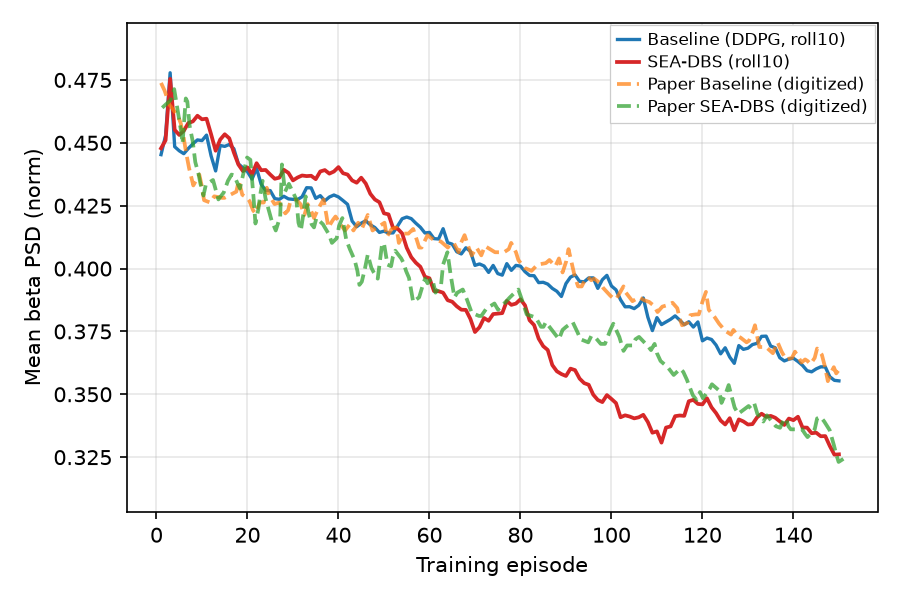
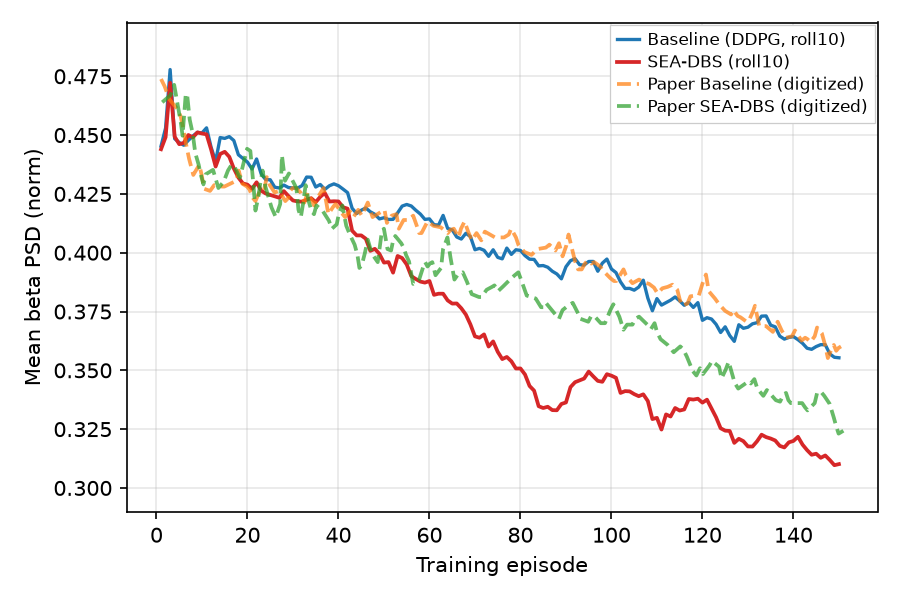
docs(reports): add continuous single-page PDFs for reports 1-4
- Generate continuous single-page PDF exports using WeasyPrint for Reports 1 through 4
- Include PDF artifacts under reports/ in the repository

diff --git a/figures/ravivarapu/replications.md b/figures/ravivarapu/replications.md
@@ -7,8 +7,8 @@ Side-by-side **paper panel** vs **our replication**. Plot scripts write replicat
 <!-- summary:start -->
 | Panel | Description | Status |
 |-------|-------------|--------|
-| Fig 4a | Training PSD vs episode | Pass (v68) |
-| Fig 4b | Training reward vs episode | Pass (v13) |
+| Fig 4a | Training PSD vs episode | Pass (v69) |
+| Fig 4b | Training reward vs episode | Pass (v14) |
 | Fig 5a | Inference @ 50 Hz | Pass |
 | Fig 5b | Inference @ 30 Hz | Pass |
 | Fig 6 | FP16 PTQ @ 50 Hz | Pass |
@@ -33,15 +33,15 @@ Related numeric protocol (not a separate panel): **Table II** — seed change ev
 
 ### Replication
 
-![Replication Fig 4a](images/4a/training_psd_v68.png)
+![Replication Fig 4a](images/4a/training_psd_v69.png)
 
 <!-- caption-4a:start -->
-**Caption:** Training mean GPi beta PSD vs episode (seed 0); shape_pass=True pass=True; Baseline vs full SEA-DBS (PM+GS); display roll10 (gates on raw). (v68)
+**Caption:** Training mean GPi beta PSD vs episode (seed 0); shape_pass=True pass=True; Baseline vs full SEA-DBS (PM+GS); display roll10 (gates on raw). (v69)
 
 **Manifest:** `artifacts/figures/papers/ravivarapu/4/manifest_4a.json`
 <!-- caption-4a:end -->
 
-**Status:** **Pass** (rep v68) — `shape_pass` and full `pass`; `fixed_episode_seed_until=2`; `fig4_ravivarapu_config_v109`; display roll10 (gates on raw); paper overlay (black baseline, grey SEA-DBS). Manifest `artifacts/figures/papers/ravivarapu/4/manifest_4a.json`.
+**Status:** **Pass** (rep v69) — `shape_pass` and full `pass`; `fixed_episode_seed_until=2`; `fig4_ravivarapu_config_v109`; display roll10 (gates on raw); paper overlay (black baseline, grey SEA-DBS). Manifest `artifacts/figures/papers/ravivarapu/4/manifest_4a.json`.
 
 <!-- gates-4a:start -->
 **Gates set** (`artifacts/figures/papers/ravivarapu/4/manifest_4a.json`; **`shape_pass`**: yes, **`pass`**: yes, 2026-08-31). Phase 1: **`shape_pass`** (trajectory shape / ordering). Ship exit: **`pass`** (adds digitization level polish).
@@ -98,10 +98,10 @@ uv run python -m rl_adaptive_dbs.run scripts/figures/papers/ravivarapu/4a/plot.p
 
 ### Replication
 
-![Replication Fig 4b](images/4b/training_reward_v13.png)
+![Replication Fig 4b](images/4b/training_reward_v14.png)
 
 <!-- caption-4b:start -->
-**Caption:** Training episode reward vs episode (seed 0); paired with Fig 4a cache; display roll10 (gates on raw). (v13)
+**Caption:** Training episode reward vs episode (seed 0); paired with Fig 4a cache; display roll10 (gates on raw). (v14)
 
 **Manifest:** `artifacts/figures/papers/ravivarapu/4/manifest_4b.json`
 <!-- caption-4b:end -->
